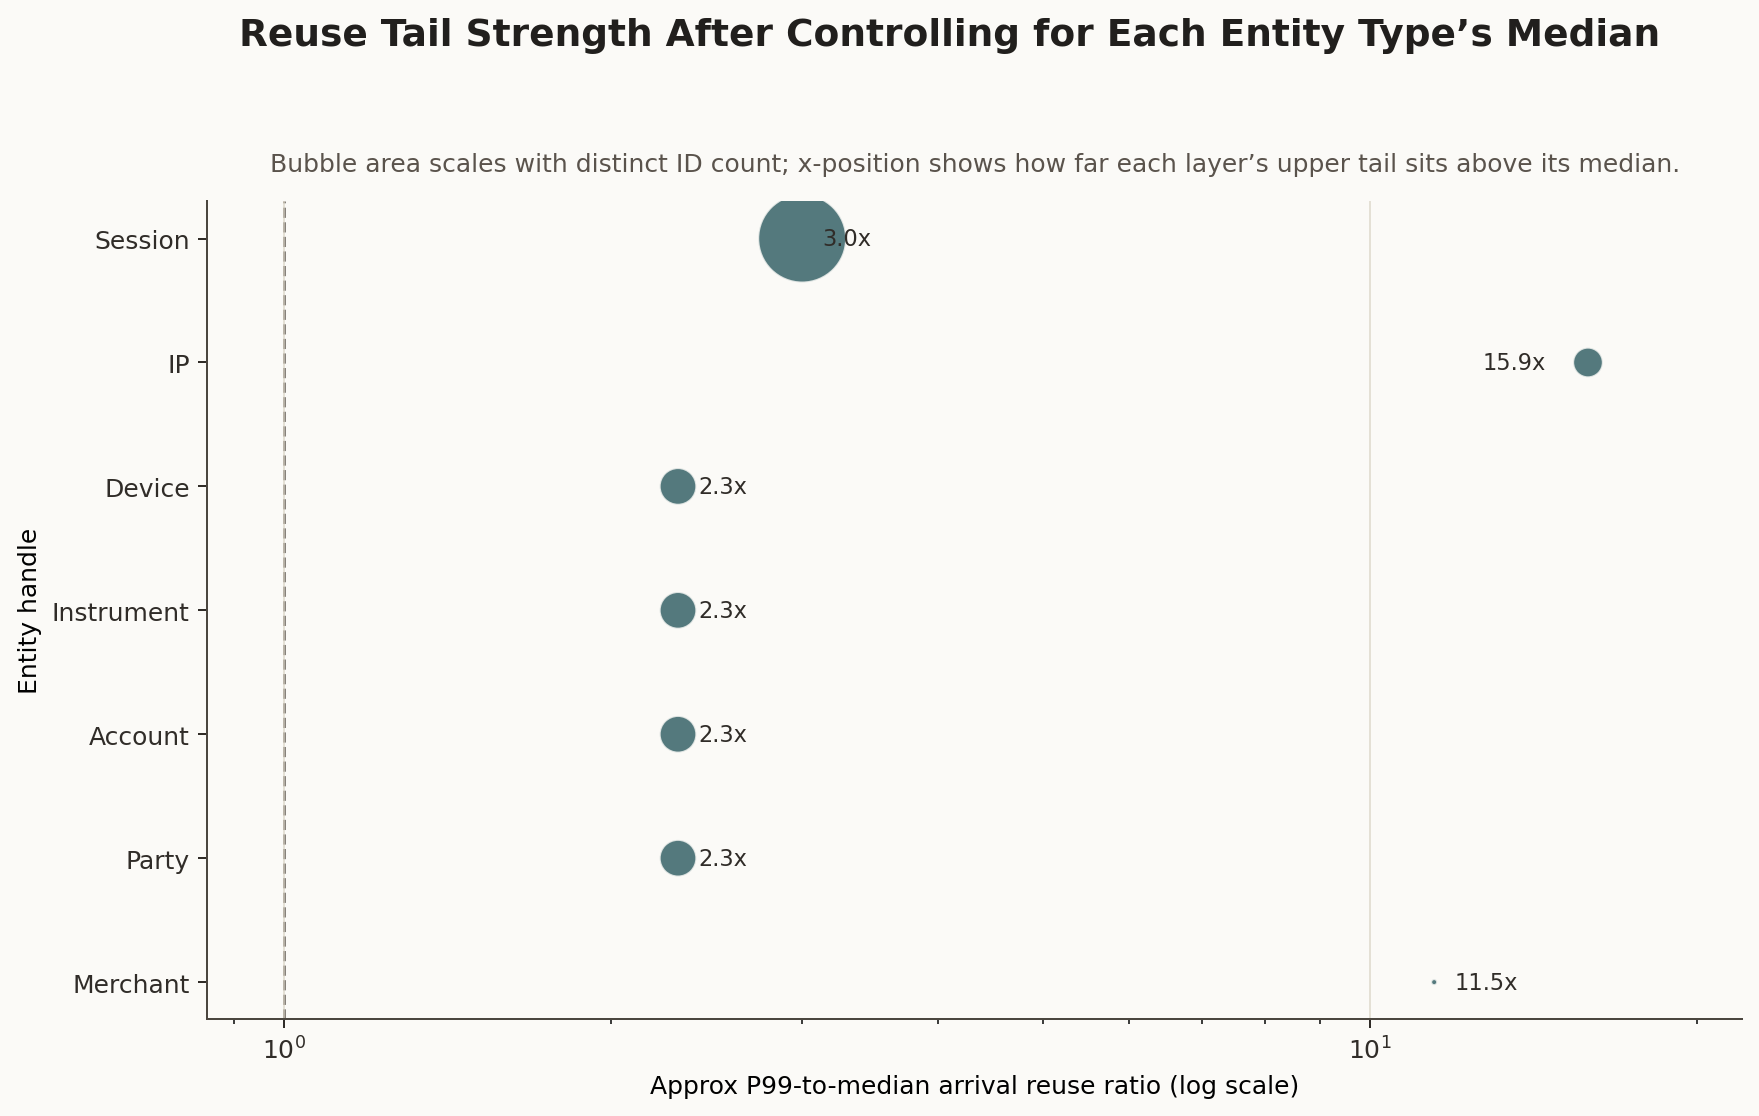
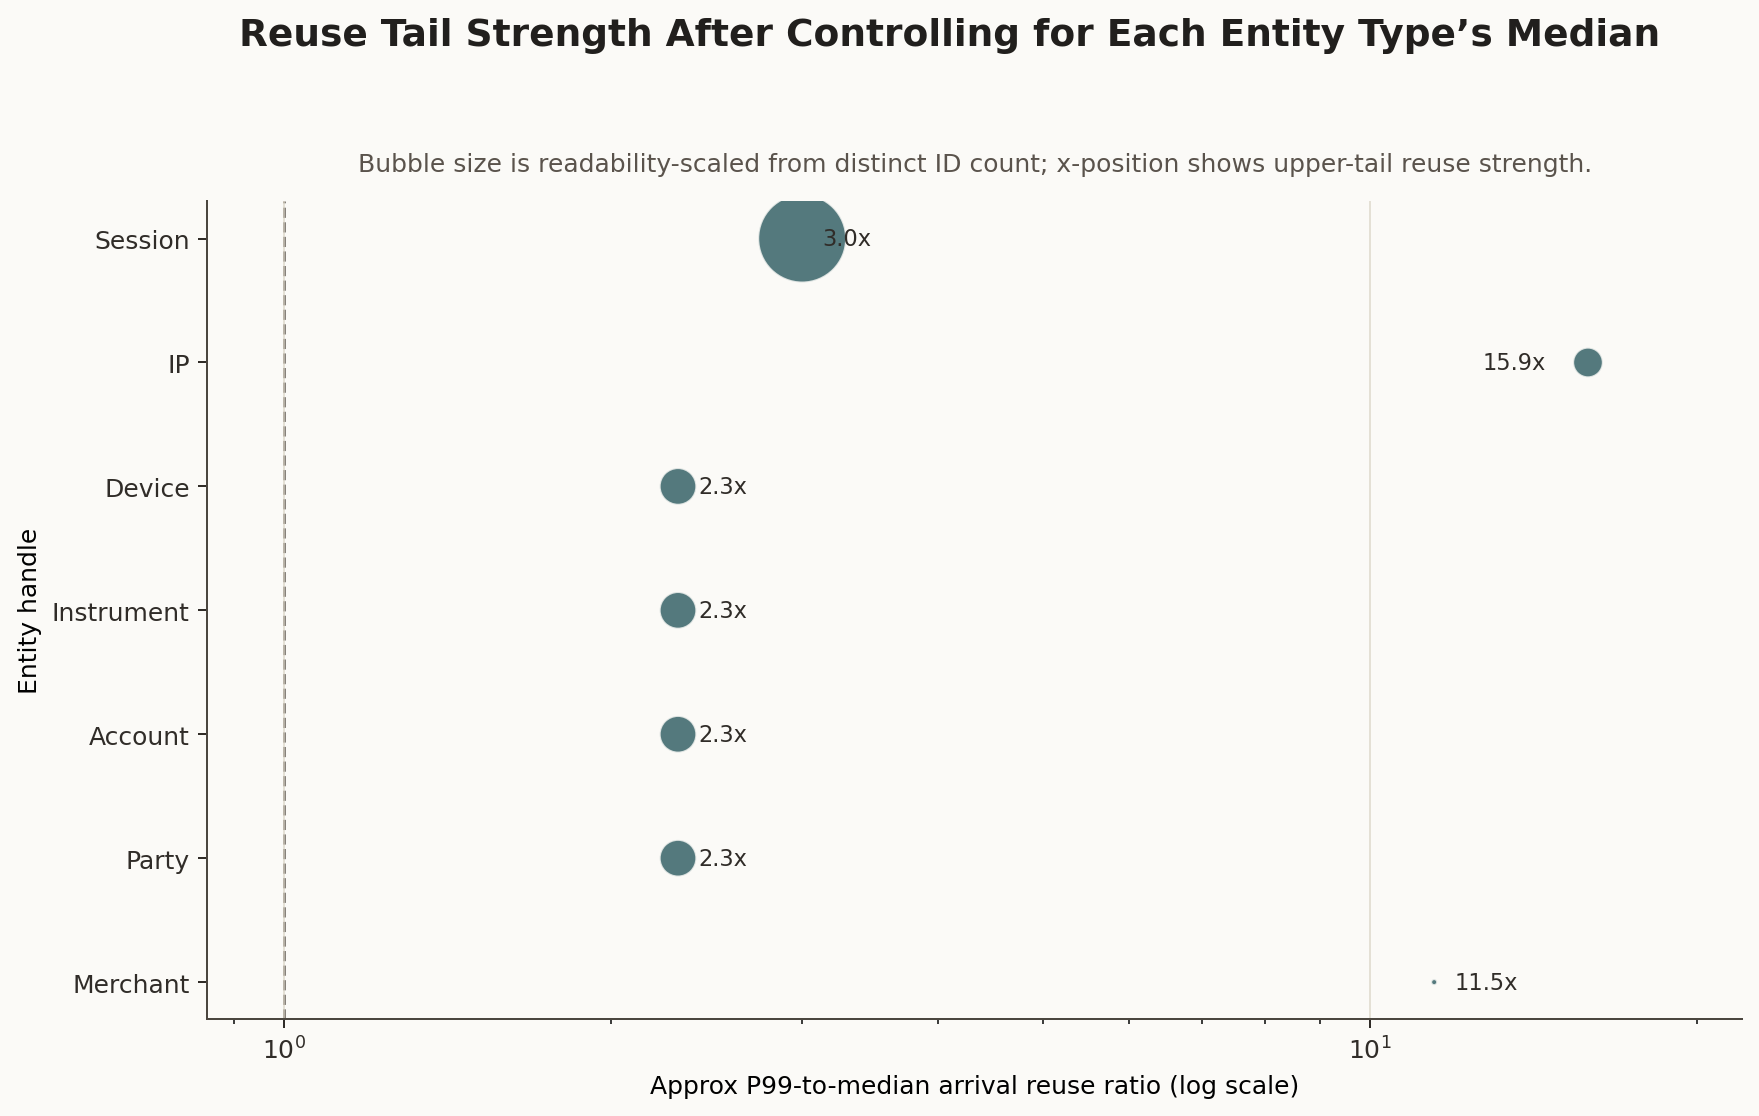
Add merchant arrival counts export and enhance cardinality analysis for entity grain identity graph

Changed region(s): [[0.1535, 0.1219, 0.9517, 0.1523]]

diff --git a/analysis/dev_full_offline_investigation/00_investigation/watson_workbench/notes/interface_world/behavioural_context/branches/entity_grain_identity_graph.md b/analysis/dev_full_offline_investigation/00_investigation/watson_workbench/notes/interface_world/behavioural_context/branches/entity_grain_identity_graph.md
@@ -37,8 +37,9 @@ Branch exports:
 - [`entity_cardinality_profile.csv`](../../../../exports/interface_world/behavioural_context/branches/entity_grain_identity_graph/entity_cardinality_profile.csv)
 - [`entity_arrival_reuse_summary.csv`](../../../../exports/interface_world/behavioural_context/branches/entity_grain_identity_graph/entity_arrival_reuse_summary.csv)
 - [`top_merchant_id_by_arrivals.csv`](../../../../exports/interface_world/behavioural_context/branches/entity_grain_identity_graph/top_merchant_id_by_arrivals.csv)
+- [`merchant_arrival_counts.csv`](../../../../exports/interface_world/behavioural_context/branches/entity_grain_identity_graph/merchant_arrival_counts.csv)
 
-The branch adds exact cardinality and arrival-reuse summaries for `s1_arrival_entities_6B`. A broader entity fanout scan was deliberately not carried forward into the report because the useful first-order branch question can be answered from exact cardinalities, per-entity arrival reuse, and the contract-defined row grain without materializing heavy many-to-many projections.
+The branch adds exact cardinality and arrival-reuse summaries for `s1_arrival_entities_6B`, plus a targeted full-merchant compact export used to inspect merchant exposure and concentration. A broader entity fanout scan was deliberately not carried forward into the report because the useful first-order branch question can be answered from exact cardinalities, per-entity arrival reuse, merchant exposure counts, and the contract-defined row grain without materializing heavy many-to-many projections.
 
 ## What this surface is
 
@@ -190,3 +191,89 @@ The graph is therefore useful, but it is not automatically realistic enough for 
 The surface is complete and coherent at required-field level, and it is rich enough to support entity-aware analytics. But the first statistical read shows a governed synthetic identity world rather than an obviously organic one. Party, account, instrument, and device IDs are broad but highly symmetric. IPs are much more reused. Sessions are numerous and short.
 
 So the next useful branch should not simply describe more columns. It should test identity fanout directly: how many accounts per party, instruments per account, devices per party, parties per device, parties per IP, and merchants per entity. That is the branch that will tell us whether the context layer can support realistic network-style fraud analytics or whether its strongest defensible use is simpler entity exposure and IP/session concentration analysis.
+
+## Appendix: visual evidence and assessment
+
+This appendix holds the visual evidence behind the branch. The figures are not included as decoration: they are here to make the entity-context structure visible at human scale. The branch is asking what kind of identity surface the platform has received, so the figures focus on cardinality, reuse, symmetry, merchant exposure, and the limits of what arrival-grain co-occurrence can prove.
+
+### A1. Entity cardinality contrast
+
+<img src="../../../../exports/interface_world/behavioural_context/branches/entity_grain_identity_graph/figures/01_entity_cardinality_contrast.png" alt="Exact entity cardinalities in the arrival context surface" width="780">
+
+This figure shows how differently sized the identity layers are even though every layer is attached to the same `236.7M` arrival rows. The merchant layer is tiny at `4,050` IDs. Party, account, instrument, and device sit together at roughly `5.59M` IDs. IP is smaller at `2.39M` IDs. Session is much larger at `184.8M` IDs.
+
+The log scale is necessary because the surface contains several orders of magnitude in one view. Without the log scale, merchant count would disappear visually and session count would dominate the chart. The important point is not merely that the bars have different heights; it is that the same arrival table exposes several different denominators. A merchant-grain question, a customer-grain question, an IP-grain question, and a session-grain question are not interchangeable, even when they all start from the same `s1_arrival_entities_6B` surface.
+
+The figure also makes the first realism caution visible. Party, account, instrument, and device are almost the same size. In an organic financial-services identity estate, we would usually expect more separation between those populations because customers, accounts, instruments, and devices do not normally move as perfectly matched layers. This chart does not prove one-to-one mapping, but it explains why the branch treats that symmetry as a lead rather than as a settled fact.
+
+What this figure proves is the cardinality structure of the identity handles. What it does not prove is relationship structure. It does not tell us whether one party has many accounts, whether one device is shared by many parties, or whether one IP joins unrelated customers. Those are fanout questions, and they require a separate grouped relationship scan.
+
+### A2. Arrival reuse shape by entity type
+
+<img src="../../../../exports/interface_world/behavioural_context/branches/entity_grain_identity_graph/figures/02_entity_arrival_reuse_quantiles.png" alt="Arrival reuse shape by entity type" width="780">
+
+This figure moves from "how many IDs exist" to "how many arrivals each ID tends to carry." That distinction matters because a large entity population can still be weak analytically if each entity appears only once, while a smaller population can be powerful if entities recur often enough to support behavioural evidence.
+
+Merchants are the high-volume operating nodes. The median merchant has about `35.6K` arrivals, the P95 merchant has about `189.9K`, the P99 merchant has about `408.1K`, and the maximum reaches about `841.7K`. That shape is expected because merchants are venues through which many transactions pass. It also warns us that row-weighted summaries will be influenced by high-volume merchants unless we explicitly choose a merchant-weighted view.
+
+Party, account, instrument, and device form a second and very different pattern. Their median, P95, P99, and maximum reuse values sit almost on top of each other. The median is `36` arrivals, P95 is `75`, P99 is `83`, and the maximum is `114` for all four layers. That is not just "similar"; it is close enough to suggest these layers were authored under a shared synthetic identity template. For analysis, this means account-level, instrument-level, and device-level summaries may look independent because the columns have different names, while statistically they may carry nearly the same recurrence structure.
+
+IP breaks that symmetry. Its median reuse is only slightly above party-level reuse, but its upper tail is much heavier: P95 is `433`, P99 is `635`, and the maximum is `1,481`. That means the IP layer has a stronger shared-infrastructure signature than party/account/instrument/device in this first-order view. If we are looking for network-style fraud analytics, IP deserves attention earlier than a generic "all entity handles are equally useful" approach.
+
+Session behaves differently again. Most sessions are short: median `1`, P95 `2`, P99 `3`, max `10`. The platform can attach session identity to arrivals, but this figure does not support treating sessions as long behavioural histories for most traffic. Session is more naturally a short-window reconstruction handle unless a later branch shows a richer session subset.
+
+The percentile points are approximate quantiles, not exact order statistics. They are still valid for reading distribution shape. The figure proves recurrence contrast across entity types; it does not prove cross-entity fanout or causality.
+
+### A3. Symmetry diagnostic against the party layer
+
+<img src="../../../../exports/interface_world/behavioural_context/branches/entity_grain_identity_graph/figures/03_identity_layer_symmetry_diagnostic.png" alt="Identity layer symmetry diagnostic against the party layer" width="780">
+
+This heatmap is a direct diagnostic for the branch's main caution: party, account, instrument, and device may not be independent analytical surfaces in this synthetic world.
+
+Each cell compares an entity layer to the party layer. A value near `1.00x` means that layer is effectively the same as party on that metric. Account, instrument, and device stay at `1.00x` across entity count, approximate median reuse, approximate P95 reuse, approximate P99 reuse, maximum reuse, and mean reuse. That is why the report does not casually say "we have four separate customer-side identity behaviours." Statistically, the first-order evidence says those four layers are moving almost as one.
+
+The IP row shows the opposite pattern. IP has fewer distinct IDs than party (`0.43x`), similar median reuse (`1.11x`), but far heavier upper-tail reuse: P95 is `5.77x` party, P99 is `7.65x` party, and max is `13.0x` party. This is the statistical reason IP is called out as the stronger network lead. It is not because the IP column sounds interesting; it is because its reuse behaviour differs materially from the tightly coupled party/account/instrument/device block.
+
+The session row should be read carefully. Session has far more distinct IDs than party (`33.1x`), but each session is much shorter: median, P95, P99, max, and mean reuse are all far below party-level reuse. That combination means the platform has many session handles, not that it has long session histories. A dashboard that simply counts session IDs would miss that distinction.
+
+This figure proves metric-level symmetry and contrast. It does not prove that the identity graph is structurally one-to-one, because it compares marginal distributions rather than pairwise mappings. The correct next step for that question remains a fanout branch.
+
+### A4. Merchant arrival exposure across the full merchant estate
+
+<img src="../../../../exports/interface_world/behavioural_context/branches/entity_grain_identity_graph/figures/04_full_merchant_ranked_arrival_exposure.png" alt="Merchant arrival exposure across the full merchant estate" width="780">
+
+This figure uses the full `4,050`-merchant compact export, not only the top-merchant slice. It ranks merchants by arrival rows and shows the entire exposure surface from the highest-volume merchant to the lowest-volume merchant.
+
+The top of the curve is steep. The highest merchant carries about `842K` arrivals, the tenth merchant still carries about `679K`, and the hundredth merchant carries about `261K`. By the middle of the merchant estate, the ranked merchant is around `36K` arrivals, and the lowest merchant is around `2K`. This is a large spread inside a single operating layer.
+
+The point of this figure is not that high-volume merchants are suspicious. High volume can be normal operating scale. The point is denominator discipline. If we compute a row-weighted fraud rate, decline rate, case rate, device-reuse rate, or IP-reuse rate, high-volume merchants will naturally carry more influence because they produce more arrivals. That is correct for platform-load questions. It is not automatically correct for "typical merchant" questions.
+
+The figure therefore supports the branch's warning that merchant exposure can dominate row-grain analysis. It does not prove merchant risk, merchant quality, or merchant fraud. It only proves the exposure shape that later risk analyses must control for.
+
+### A5. Merchant concentration curve
+
+<img src="../../../../exports/interface_world/behavioural_context/branches/entity_grain_identity_graph/figures/05_full_merchant_arrival_concentration_curve.png" alt="Merchant concentration curve for arrival exposure" width="780">
+
+This figure turns the ranked merchant surface into a concentration view. The dashed diagonal is the equal-exposure reference: if every merchant contributed evenly, the top `10%` of merchants would contribute `10%` of arrivals, the top `50%` would contribute `50%`, and the curve would sit on the diagonal. The observed curve rises above that reference, which means arrival exposure is concentrated among higher-volume merchants.
+
+The top `100` merchants contribute `17.8%` of all arrivals. The top `10%` of merchants contribute `40.4%`. The top `50%` contribute `85.0%`. Those numbers are the practical reason merchant grain matters. A row-level view of the context surface is not a neutral view of all merchants; it is an exposure-weighted view of the operating world.
+
+This does not mean the merchant layer is unusable. It means we must be explicit about the analytical question. If the stakeholder question is platform throughput, queue load, total exposure, or total case burden, the exposure-weighted view is the right view. If the question is whether a typical merchant experiences a certain pattern, this curve says a merchant-weighted view is needed as well.
+
+The early concentration markers are included because the curve alone can make the concentration look smooth and abstract. The callouts show the actual business implication: a small subset of high-volume merchants can materially shape row-level statistics. This figure proves concentration of arrival exposure across merchants. It does not prove concentration of fraud, fraud loss, case burden, or bank action; those must be tested by joining to truth/case surfaces.
+
+### A6. Reuse tail strength by entity type
+
+<img src="../../../../exports/interface_world/behavioural_context/branches/entity_grain_identity_graph/figures/06_reuse_tail_strength_by_entity_type.png" alt="Reuse tail strength by entity type" width="780">
+
+This figure compresses the reuse evidence into one tail-strength comparison. The x-axis is the approximate P99-to-median ratio for each entity type. A larger ratio means the upper tail sits much higher above the typical entity in that layer. Bubble size is readability-scaled from the number of distinct IDs, so it should be read as population context rather than as an exact proportional encoding.
+
+Party, account, instrument, and device cluster at about `2.3x`. That reinforces the same point seen in the table and heatmap: these layers have almost the same recurrence posture. Their upper tails exist, but they are not dramatically separated from the median compared with IP or merchant.
+
+IP sits far to the right at about `15.9x`. This is the strongest visual evidence in this branch that IP is the identity handle with a meaningfully heavier reuse tail. In platform terms, IP can represent shared network infrastructure, repeated access context, public/shared connectivity, or synthetic reuse policy. The figure does not tell us which of those explanations is true, but it tells us IP is statistically different enough to justify deeper inspection.
+
+Merchant also has a large tail ratio, about `11.5x`, but it should be interpreted differently from IP. A merchant with many arrivals is not an identity-sharing signal by itself; merchants are operating venues, so high volume is part of the business surface. IP reuse is more suggestive of shared infrastructure because IP is not the transaction venue in the same way. That is why the same numerical idea, reuse tail strength, has different operational meaning depending on the entity handle.
+
+Session has a ratio of `3.0x`, but its median is only `1` and P99 is `3`. That ratio should not be overread as a rich long-tail behaviour. In absolute terms, sessions remain short for almost all traffic. The figure helps separate relative tail strength from practical behavioural depth.
+
+This figure is useful as a prioritization view. It supports IP and merchant exposure as stronger first-order leads than party/account/instrument/device recurrence alone. It does not replace fanout analysis, and it should not be used to claim that IP reuse is fraudulent without truth, amount, channel, time, and case context.
